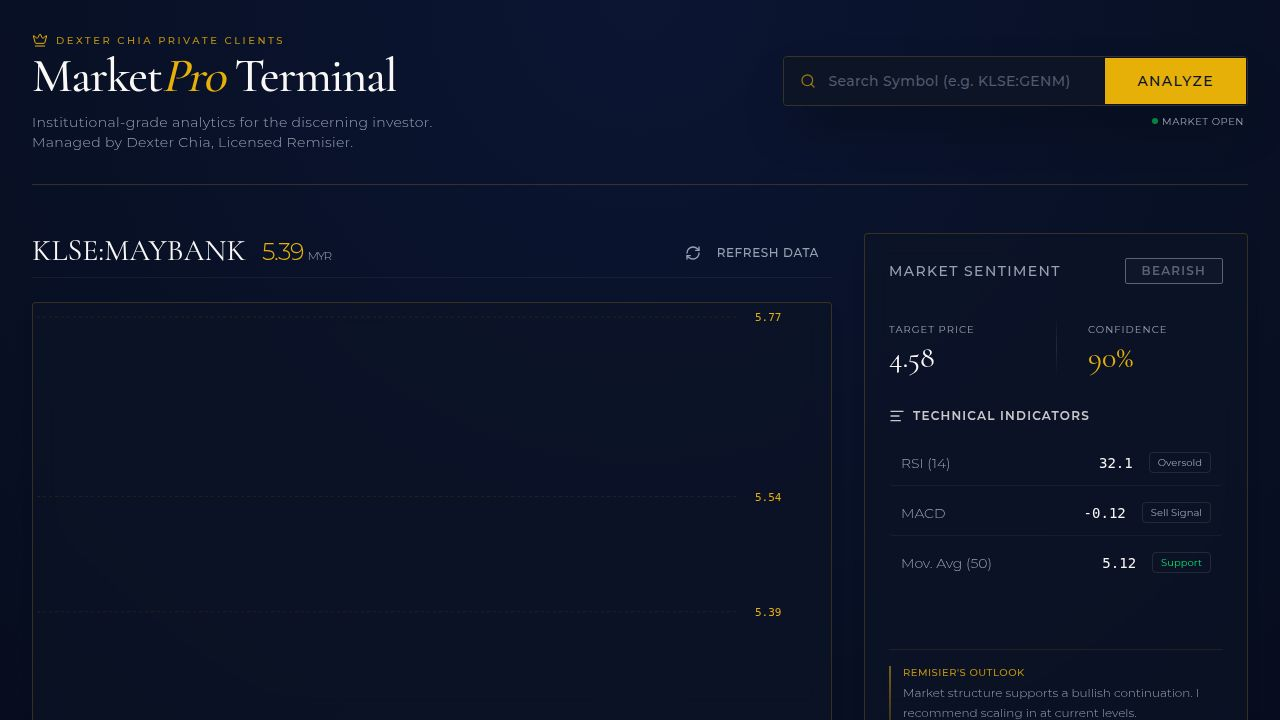
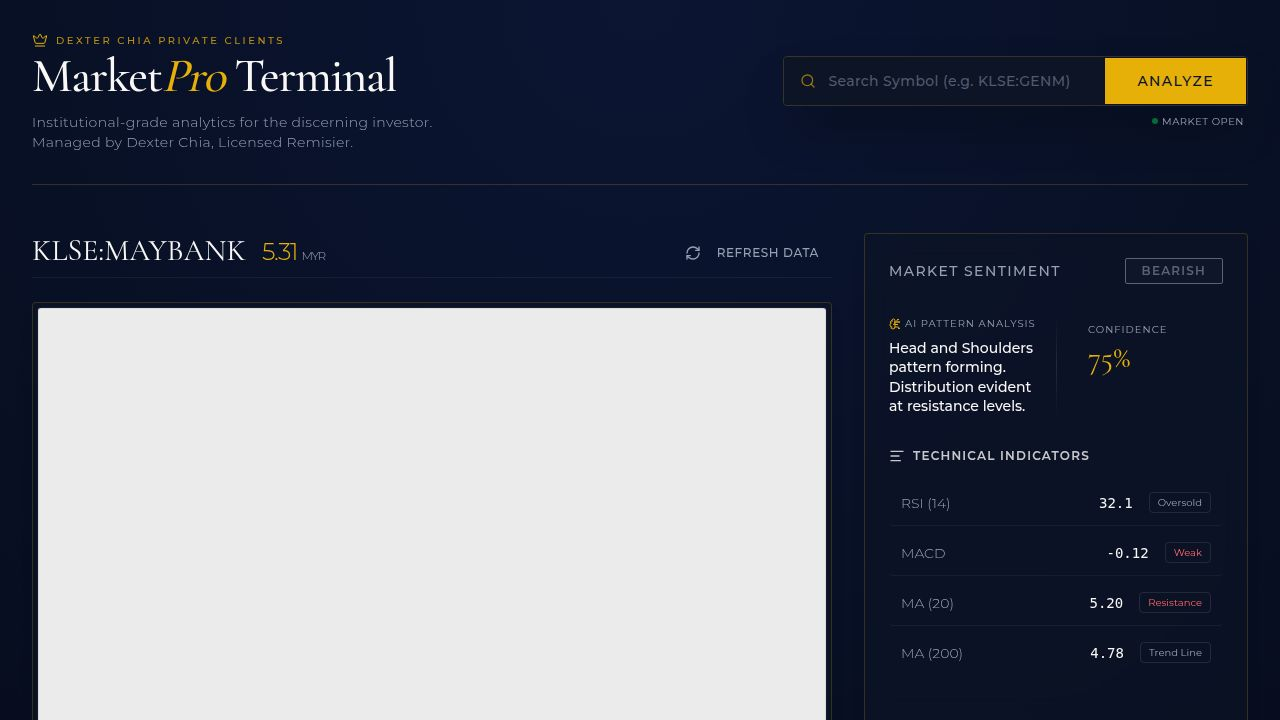
Integrate advanced real-time TradingView charting experience
Replace custom stock chart with TradingView widget for enhanced charting capabilities.

Replit-Commit-Author: Agent
Replit-Commit-Session-Id: 29926df6-99fb-4b19-a4b0-01293b45f98c
Replit-Commit-Checkpoint-Type: full_checkpoint
Replit-Commit-Event-Id: 96163b2e-9666-4648-ba99-bea697e43127
Replit-Commit-Screenshot-Url: https://storage.googleapis.com/screenshot-production-us-central1/a6e7eec2-147f-4fcc-9b91-33fc20bd2ca0/29926df6-99fb-4b19-a4b0-01293b45f98c/PqKq8DX
Replit-Helium-Checkpoint-Created: true

diff --git a/client/src/components/TradingViewChart.tsx b/client/src/components/TradingViewChart.tsx
@@ -1,0 +1,49 @@
+import React, { useEffect, useRef, memo } from 'react';
+
+export default function TradingViewChart({ symbol }: { symbol: string }) {
+  const container = useRef<HTMLDivElement>(null);
+
+  useEffect(() => {
+    // Clean up previous script if it exists
+    if (container.current) {
+      container.current.innerHTML = "";
+    }
+
+    const script = document.createElement("script");
+    script.src = "https://s3.tradingview.com/external-embedding/embed-widget-advanced-chart.js";
+    script.type = "text/javascript";
+    script.async = true;
+    
+    // Format symbol for TradingView (e.g., "KLSE:MAYBANK")
+    const formattedSymbol = symbol.includes("KLSE") ? symbol : `NASDAQ:${symbol}`;
+
+    script.innerHTML = JSON.stringify({
+      "autosize": true,
+      "symbol": formattedSymbol,
+      "interval": "D",
+      "timezone": "Asia/Kuala_Lumpur",
+      "theme": "dark",
+      "style": "1",
+      "locale": "en",
+      "enable_publishing": false,
+      "backgroundColor": "rgba(13, 16, 23, 1)", 
+      "gridColor": "rgba(255, 255, 255, 0.05)",
+      "hide_top_toolbar": false,
+      "hide_legend": false,
+      "save_image": false,
+      "calendar": false,
+      "hide_volume": true,
+      "support_host": "https://www.tradingview.com"
+    });
+
+    if (container.current) {
+      container.current.appendChild(script);
+    }
+  }, [symbol]);
+
+  return (
+    <div className="h-[500px] w-full bg-card/40 rounded-lg overflow-hidden border border-white/5 relative z-0" ref={container}>
+      <div className="tradingview-widget-container__widget h-full w-full"></div>
+    </div>
+  );
+}

diff --git a/client/src/pages/Dashboard.tsx b/client/src/pages/Dashboard.tsx
@@ -1,13 +1,13 @@
 import React, { useState } from 'react';
 import { useQuery } from "@tanstack/react-query";
-import { StockChart } from "@/components/StockChart";
+import TradingViewChart from "@/components/TradingViewChart";
+import { CompanyInsights } from "@/components/CompanyInsights";
 import { AnalysisPanel } from "@/components/AnalysisPanel";
 import { generateMockData } from "@/lib/stockData";
 import { Input } from "@/components/ui/input";
 import { Button } from "@/components/ui/button";
-import { Search, RefreshCw, Diamond, Crown, ChevronRight, TrendingUp } from "lucide-react";
+import { Search, RefreshCw, Diamond, Crown } from "lucide-react";
 import { PromotionalMessage } from '@/components/PromotionalMessage';
-import { CompanyInsights } from "@/components/CompanyInsights";
 
 export default function Dashboard() {
   const [symbol, setSymbol] = useState("KLSE:MAYBANK");
@@ -104,8 +104,8 @@ export default function Dashboard() {
              </div>
              
              {data ? (
-               <div className="glass-panel p-1 rounded-lg">
-                 <StockChart data={data} symbol={symbol} />
+               <div className="glass-panel p-1 rounded-lg h-[500px]">
+                 <TradingViewChart symbol={symbol} />
                </div>
              ) : (
                <div className="h-[400px] flex flex-col items-center justify-center bg-card/20 rounded-lg border border-primary/10 border-dashed text-muted-foreground font-light">
